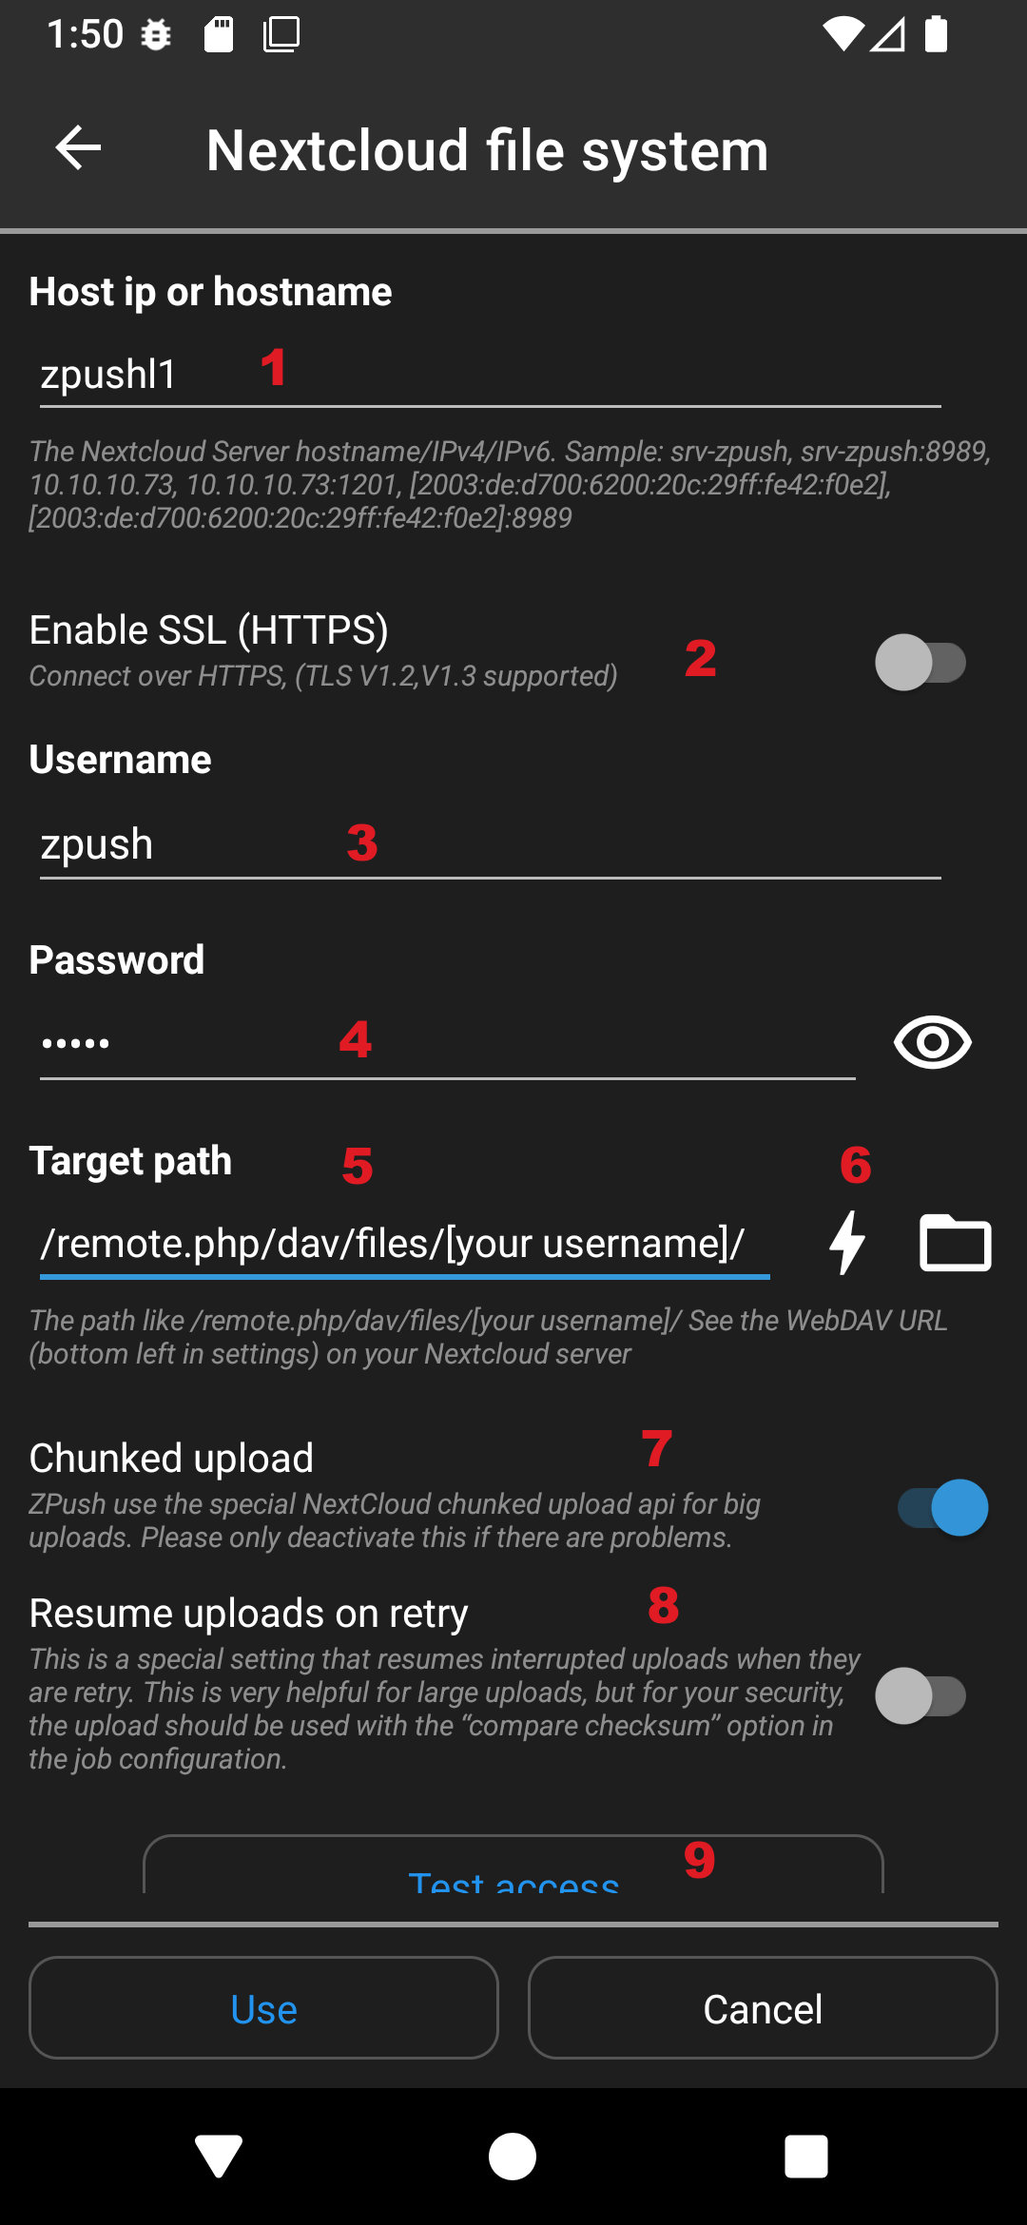
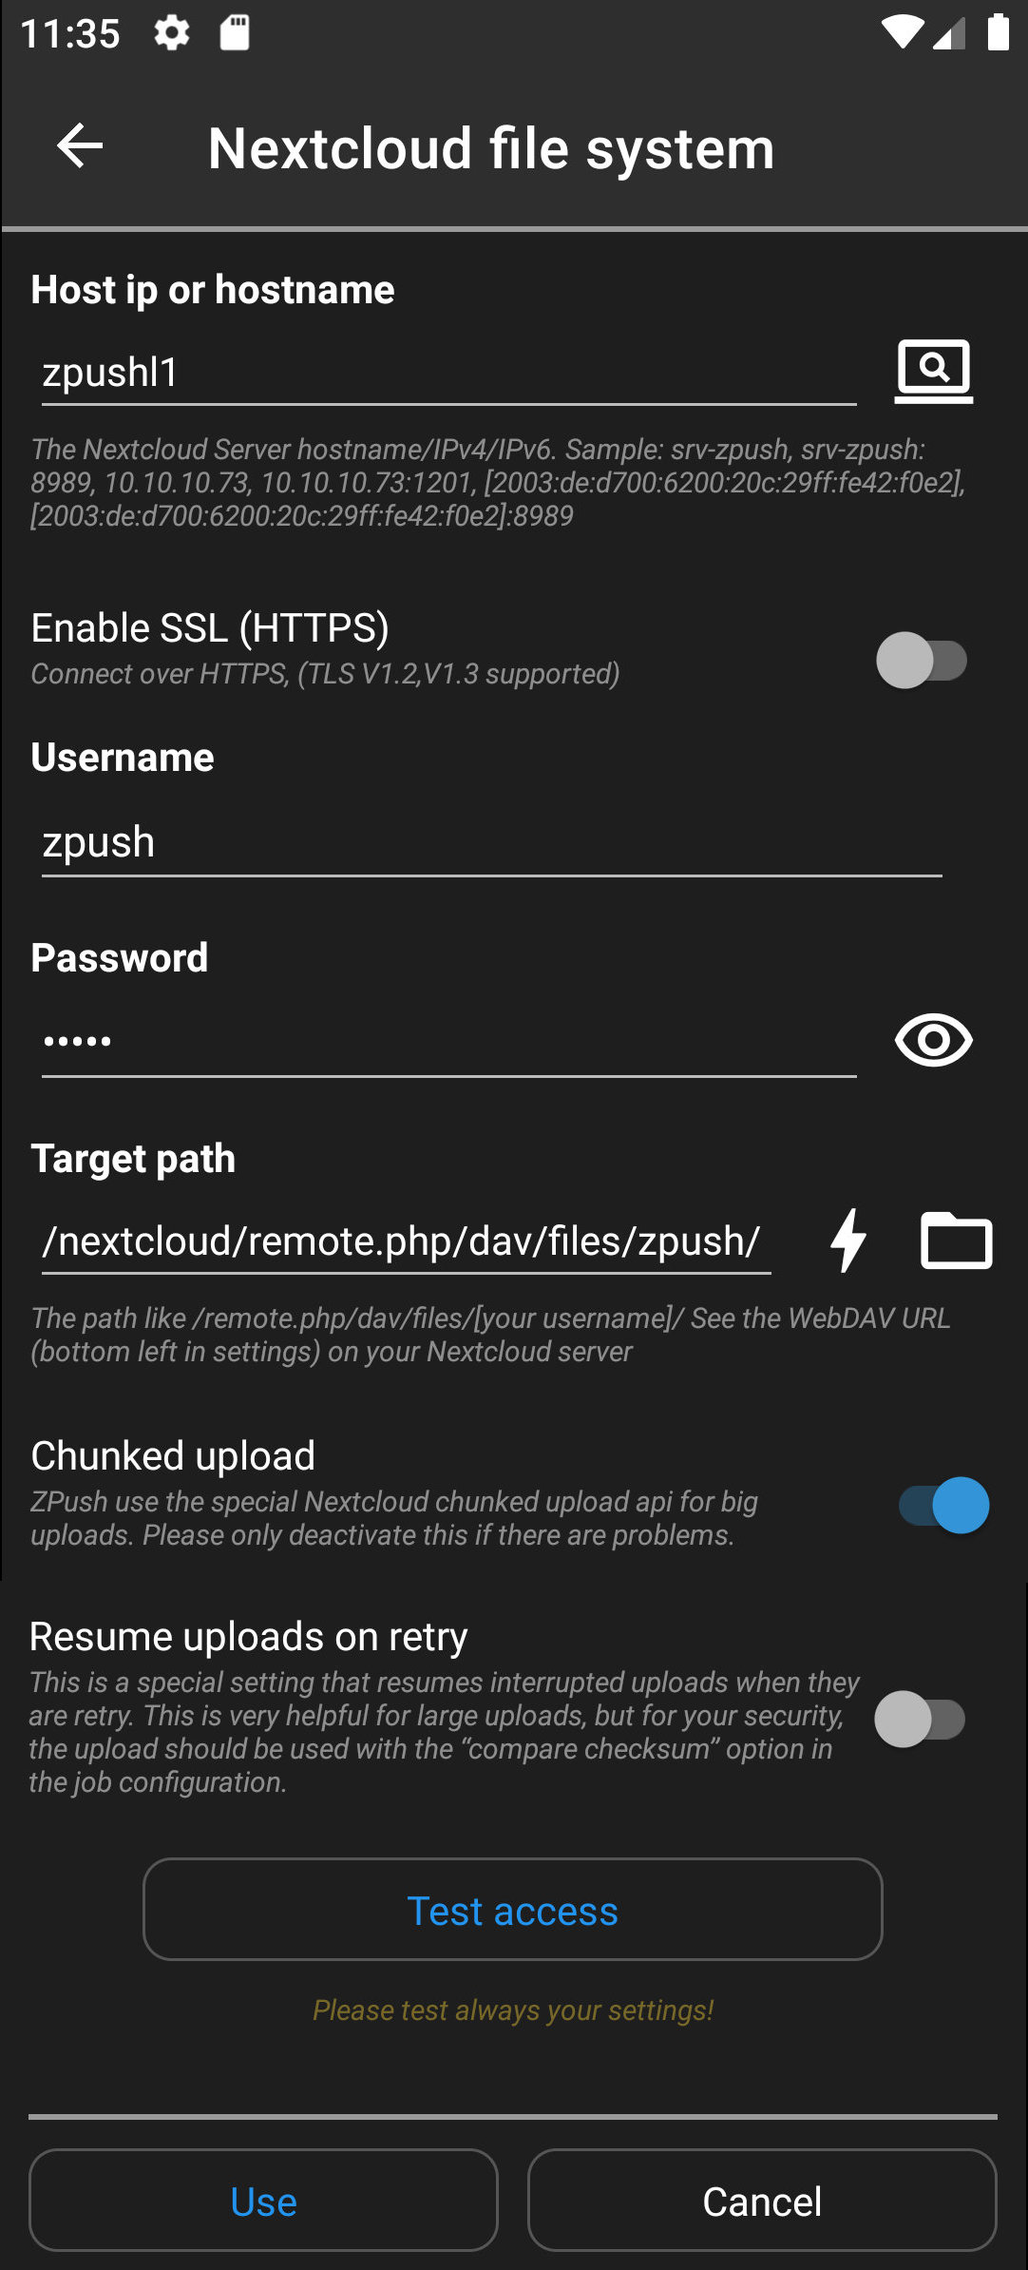
Add more documentation

diff --git a/docs/index.html b/docs/index.html
@@ -70,6 +70,10 @@
                     <li><a href="#Edit-JOB-PHOTOPRISM-Driver">PhotoPrism</a></li>
                 </ul>
             </li>
+            <li><a href="#SERVER-PICKER">Server Picker</a></li>
+            <li><a href="#EDIT-STARTPOINT">Job starting point</a></li>
+            <li><a href="#EDIT-FILENAMEPATTERN">Filename pattern</a></li>
+            
         </ul>
 
         <div id="INTRODUCTION" class="section">
@@ -118,6 +122,9 @@
             <H2 id="NYH">Need your help</H2>
             I develop ZPush in my spare time and have released it for free. If you want to motivate me to continue
             working on ZPush, you can do so in 2 minutes of your time by writing a nice 5-star review in the Play Store.
+            <div class="hcenter">
+                <img src="./images/star_yellow.png">
+            </div>
 
 
             <H2 id="GTK">Good to know</H2>
@@ -136,6 +143,16 @@
                         you can use to send me an email with all the information I need to analyze the problem. The
                         information does not include passwords but server names and IP addresses.
                     </p>
+                    <H3 id="SSID">Check the WiFi SSID</H2>
+                        <p>
+                            Many users have expressed their desire for ZPush to only run on a specific SSID.
+                            Unfortunately, after much discussion with Google, I have to say that I cannot integrate this
+                            feature
+                            because it requires extremely high permissions.
+                            I am working on an alternative,
+                            but even access to MAC addresses remains denied to ZPush.
+                            If anyone has an idea for identifying a network, please let me know.
+                        </p>
 
         </div>
 
@@ -180,26 +197,6 @@
                 <li>Start the background upload only when android detect that the device is idle</li>
                 <li>Start the background upload only when the device is charging</li>
             </ol>
-
-            <div class="itemdesc">
-                <h4>Allowed WiFi SSID</h4>
-                <p class="center">Here you can specify one or more WiFi SSIDs that determine when ZPush can run.
-                    If no Wi-Fi is connected at startup, this setting is ignored and ZPush continues;
-                    if the field is empty, transmission is started for each SSID.
-                </p>
-                <img class="image" src="images/jobConfig-target-SSID-no-permission.jpg">
-
-
-                <p class="center">This red icon indicates that ZPush is missing one or more permissions.
-                    Tap on the icon to grant permission.</p>
-
-
-                <img class="image" src="images/jobConfig-target-SSID-grant-permission.jpg">
-
-                <p class="center">This geen icon indicates that ZPush as acess to the current SSID.
-                    Tap to add the current SSID to the list.</p>
-            </div>
-
 
             <h4>Retries</h4>
             <img id="mainConfigUploadRetries" class="image" src="images/mainConfigRetries.jpg">
@@ -260,7 +257,8 @@
                 <p class="center">
                     If a file uploaded successfully, ZPush delete this from the device.
                     <span class="important"><br>Please note that the source file will be irretrievably deleted.</span>
-                    <span class="important"><br>For your safety, only use this setting with the “compare checksum” setting.</span>
+                    <span class="important"><br>For your safety, only use this setting with the “compare checksum”
+                        setting.</span>
 
                 </p>
             </div>
@@ -293,30 +291,14 @@
                 </p>
             </div>
 
-
-            <div class="itemdesc" id="jobConfigTargetSSID">
-                <h4> Allowed WiFi SSID</h4>
-                <p class="center">Here you can specify one or more WiFi SSIDs that determine when ZPush can run.
-                    If no Wi-Fi is connected at startup, this setting is ignored and ZPush continues;
-                    if the field is empty, transmission is started for each SSID.
-                </p>
-                <img class="image" src="images/jobConfig-target-SSID-no-permission.jpg">
-                <p class="center">This red icon indicates that ZPush is missing one or more permissions.
-                    Tap on the icon to grant permission.</p>
-
-
-                <img class="image" src="images/jobConfig-target-SSID-grant-permission.jpg">
-                <p class="center">This geen icon indicates that ZPush as acess to the current SSID.
-                    Tap to add the current SSID to the list.</p>
-
-            </div>
-
-
-
             <div class="itemdesc">
                 <img class="image" src="images/jobConfig-SetStartPoint.jpg">
                 <p class="center">Opens the page for setting the starting point for the next transfer.
-                    This makes it possible to skip files or transfer them again.</p>
+                    This makes it possible to skip files or transfer them again.
+                    <p class="hcenter">
+                    see: <a href="#EDIT-STARTPOINT">Job starting point</a>
+                    </p>
+                </p>
             </div>
 
 
@@ -331,7 +313,10 @@
                 <p class="center">ZPush reads exif information from your image file when copying (only .jpg and .jpeg
                     exif data is supported) and makes the information available in different variables. If no exif data
                     is found or if it is not a jpg file, the file system information is evaluated.</p>
-
+                <p class="hcenter">
+                    see: <a href="#EDIT-FILENAMEPATTERN">Filename pattern</a>
+                </p>
+                
             </div>
 
             <!--  target structure  -->
@@ -384,7 +369,7 @@
                 Follow driver are available:</p>
                 <dl>
                     <dt>Samba </dt>
-                    <dd>This driver can you use if you want to upload to a Linux samba share or a Windows share.
+                    <dd>This driver can you use if you want to upload to a Linux samba share.
                         This driver support the SMB protocol SMB 2.0, SMB 2.1 and SMB 3.0.
                         Since Microsoft has changed its company policy, I no longer officially support Windows. I no
                         longer have Windows on my personal computers either and recommend Linux.
@@ -409,13 +394,16 @@
             <div id="Edit-JOB-Samba-Driver" class="section">
                 <h2>Configure Samba driver</h2>
                 <img class="image" src="images/jobConfig-Samba.jpg">
-                <ol type="1">
+                <ul>
                     <li>
                         <h4>Host ip or hostname</h4>
                         Input here the server name or the IPv4 or IPv6 address and if the port deviating from the
-                        standard you
-                        can append it by double point. If you have problems with the Name resolution, please use the Ip
+                        standard you can append it by double point. If you have problems with the Name resolution,
+                        please use the Ip
                         address or deactivate the dynamic Mac address on your device.
+                        On the right-hand side, you can open the server picker and browse available servers in your
+                        local network.
+
                         <br><br> Samples:
                         <ul>
                             <li>Ubuntu</li>
@@ -435,8 +423,9 @@
                     </li>
                     <li>
                         <h4>Target Path</h4>
-                        Input here the samba path like \Share\directory1\directory2 or only \ and then you can use the
-                        picker.
+                        Input here the samba path like \Share\directory1\directory2 or only \ .
+                        On the right-hand side, you can open the directory picker and select the destination path.
+
                     </li>
                     <li>
                         <h4>Resume upload on retry</h4>
@@ -450,21 +439,24 @@
                         directory.
                         <span class="important"><br>Please test always your settings!</span>
                     </li>
-                </ol>
+                </ul>
             </div>
 
 
 
             <div id="Edit-JOB-WebDAV-Driver" class="section">
                 <h2>Configure WebDav driver</h2>
-                <img class="image" src="images/jobConfig-WebDAV.jpg">
-                <ol type="1">
+                <img class="image" src="images/jobConfig-webdav.jpg">
+                <ul>
                     <li>
                         <h4>Host ip or hostname</h4>
                         Input here the server name or the IPv4 or IPv6 address and if the port deviating from the
                         standard you
                         can append it by double point. If you have problems with the Name resolution, please use the Ip
                         address or deactivate the dynamic Mac address on your device.
+                        On the right-hand side, you can open the server picker and browse available servers in your
+                        local network.
+
                         <br><br> Samples:
                         <ul>
                             <li>Ubuntu</li>
@@ -489,6 +481,8 @@
                     <li>
                         <h4>Target Path</h4> Input here the WebDav path like /directory1/directory2/ if your Url is
                         https://zpushl1/directory1/directory2/.
+                        On the right-hand side, you can open the directory picker and select the destination path, but
+                        please first enter the root directory in the input field.
                     </li>
                     <li>
                         <h4>Test Access</h4>
@@ -496,19 +490,24 @@
                         directory.
                         <span class="important"><br>Please test always your settings!</span>
                     </li>
-                </ol>
+                </ul>
             </div>
 
             <div id="Edit-JOB-NextCloud-Driver" class="section">
                 <h2>Configure Nextcloud driver</h2>
+
                 <img class="image" src="images/jobConfig-NextCloud.jpg">
-                <ol type="1">
+
+                <ul>
                     <li>
                         <h4>Host ip or hostname</h4>
                         Input here the server name or the IPv4 or IPv6 address and if the port deviating from the
                         standard you
                         can append it by double point. If you have problems with the Name resolution, please use the Ip
                         address or deactivate the dynamic Mac address on your device.
+                        On the right-hand side, you can open the server picker and browse available servers in your
+                        local network.
+
                         <br><br> Samples:
                         <ul>
                             <li>Ubuntu</li>
@@ -535,6 +534,8 @@
                         <h4>Target Path</h4>
                         Input here the Nextcloud upload API Path, the standard is /remote.php/dav/files/[User
                         username]/.
+                        On the right-hand side, you can open the directory picker and select the destination path, but
+                        please first enter the root directory in the input field.
                     </li>
                     <li>Tap here to generate the standard path with your username.</li>
                     <li>
@@ -555,20 +556,22 @@
                         directory.
                         <span class="important"><br>Please test always your settings!</span>
                     </li>
-                </ol>
+                </ul>
             </div>
 
             <div id="Edit-JOB-SFTP-Driver" class="section">
                 <h2>Configure Sftp driver</h2>
-                <img class="image" src="images/jobConfig-Sftp-1.jpg">
-                <img class="image" src="images/jobConfig-Sftp-2.jpg">
-                <ol type="1">
+                <img class="image" src="images/jobConfig-Sftp.jpg">
+
+                <ul>
                     <li>
                         <h4>Host ip or hostname</h4>
                         Input here the server name or the IPv4 or IPv6 address and if the port deviating from the
                         standard you
                         can append it by double point. If you have problems with the Name resolution, please use the Ip
                         address or deactivate the dynamic Mac address on your device.
+                        On the right-hand side, you can open the server picker and browse available servers in your
+                        local network.
                         <br><br> Samples:
                         <ul>
                             <li>Ubuntu</li>
@@ -588,9 +591,9 @@
                         If you want to log in using a certificate, you can select and save the private key here. ZPush
                         uses this private key and the user name to connect to the server. This function has been tested
                         with ed25519 and RSA keys.
+                        The X icon on the right-hand side, clear the uploaded certificate and the medal icon open the
+                        filebrowser to assing a new private key.
                     </li>
-                    <li>When tap, they delete the stored private certificate key.</li>
-                    <li>When tap, you can import the private certificate key file.</li>
                     <li>
                         <h4>Password/Certificate passphrase</h4>
                         If you have not specified a certificate, you can enter the user's password here. If you are
@@ -600,17 +603,13 @@
                         <h4>Server Fingerprint</h4>
                         ZPush can verify the server's fingerprint during connection. If it does not match, ZPush
                         terminates. If the fingerprint is empty, no fingerprint verification is performed.
-                    </li>
-                    <li>
-                        Clears the fingerpint.
-                    </li>
-                    <li>
-                        Determine the fingerprint of the server. Please note that all connection data must be specified
-                        for this.
+                        The X icon on the right-hand side, clear the server fingerprint and the fingerprint icon
+                        determine the fingerprint of the server. Please note that all connection data must be specified.
                     </li>
                     <li>
                         <h4>Target Path</h4>
                         Input here the filesystem path from the root like /directory1/directory2/.
+                        On the right-hand side, you can open the directory picker and select the destination path.
                     </li>
                     <li>
                         <h4>Resume uploads on retry</h4>
@@ -626,7 +625,7 @@
                         <span class="important"><br>Please test always your settings!</span>
                     </li>
 
-                </ol>
+                </ul>
 
                 <h4>Generate certificate for use with ZPush</h4>
                 <div class="indent">
@@ -654,13 +653,15 @@
             <div id="Edit-JOB-PHOTOPRISM-Driver" class="section">
                 <h2>Configure PhotoPrism® </h2>
                 <img class="image" src="images/jobConfig-PhotoPrism.jpg">
-                <ol type="1">
+                <ul>
                     <li>
                         <h4>Host ip or hostname</h4>
                         Input here the server name or the IPv4 or IPv6 address and if the port deviating from the
                         standard you
                         can append it by double point. If you have problems with the Name resolution, please use the Ip
                         address or deactivate the dynamic Mac address on your device.
+                        On the right-hand side, you can open the server picker and browse available servers in your
+                        local network.
                         <br><br> Samples:
                         <ul>
                             <li>Ubuntu</li>
@@ -694,13 +695,57 @@
                         directory.
                         <span class="important"><br>Please test always your settings!</span>
                     </li>
-                </ol>
+                </ul>
             </div>
 
         </div>
 
+        <div id="SERVER-PICKER" class="section">
+            <H2>Server Picker</H2>
+            <img class="image" src="images/Server_picker.jpg">
+            <p class="center">
+                The server picker helps you find specific servers in your local network.
+                This picker only works if WiFi is turned on and you are connected to the network where your desired
+                server is located.
+                ZPush searches for servers in the DNS and checks whether they have a standard port open.
+                Unfortunately, pinging is blocked by Android.
+            <p  class="center">
+                Green means the server is available and a standard TCP port is open (ZPush checks the following ports:
+                22, 445, 80, 443, 3389).
+            </p>
+            <p  class="center">
+                Red means the server is not responding to the standard ports and it cannot be determined whether it is
+                running or still on the network.
+            </p>
 
+            After selecting a server and tapping “Use,” a selection will appear with host name, IPv4, and IPv6 ULA.
+            Please select what you would like to use in the host field. Please note that IP addresses are permanently
+            assigned to the server. If this is the case, IP addresses are preferable.
+            </p>
+        </div>
 
+        <div id="EDIT-STARTPOINT" class="section">
+            <H2>Job Starting point</H2>
+            <img class="image" src="images/zpush_startpoint.jpg">
+            <p  class="center">
+                In this dialog, you can specify the starting point for the next upload.
+                You can also set the starting point to a date in the past to transfer files again.
+                Once you have selected the date, ZPush will only transfer files that are equal to or newer than the selected date during the next upload.
+                The dialog also shows you which file ZPush will start with and how much data will be transferred.
+            </p>
+        </div>
+        
+        <div id="EDIT-FILENAMEPATTERN" class="section">
+            <H2>Job Starting point</H2>
+            <img class="image" src="images/zpush_pattern.jpg">
+            <p class="center">
+                ZPush reads exif information from your image file when copying (only .jpg and .jpeg exif data is supported) and makes the information available in different variables. 
+                If no exif data is found or if it is not a jpg file, the file system information is evaluated.
+            </p>
+            <p class="center">
+            You can customize the file name here to suit your needs, but the original file name must always be included, otherwise ambiguities may arise. 
+            </p>
+        </div>
         <hr>
 
 
@@ -721,6 +766,7 @@
         </div>
 
     </div>
+
 
 
     <script src="https://cdn.jsdelivr.net/npm/cookieconsent@3/build/cookieconsent.min.js" data-cfasync="false"></script>

diff --git a/docs/style.css b/docs/style.css
@@ -39,6 +39,7 @@ h2 {
     max-width: 80%;
     min-width: 200px;
 }
+
 .image-small {
     border-radius: 8px;
     border: 2px solid #2294f0;
